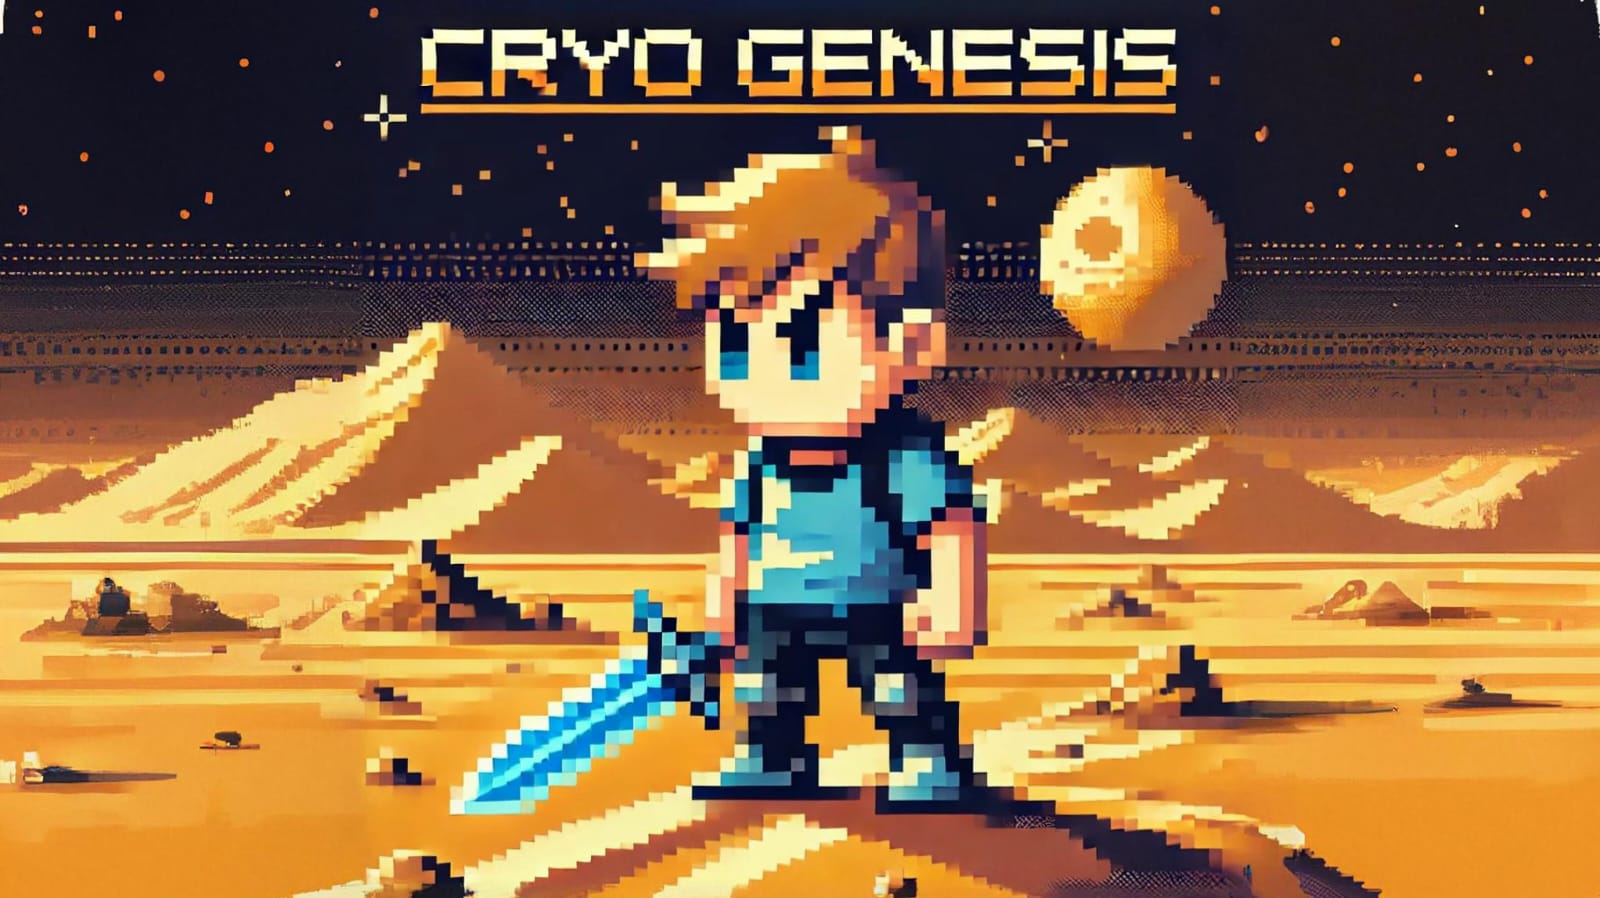
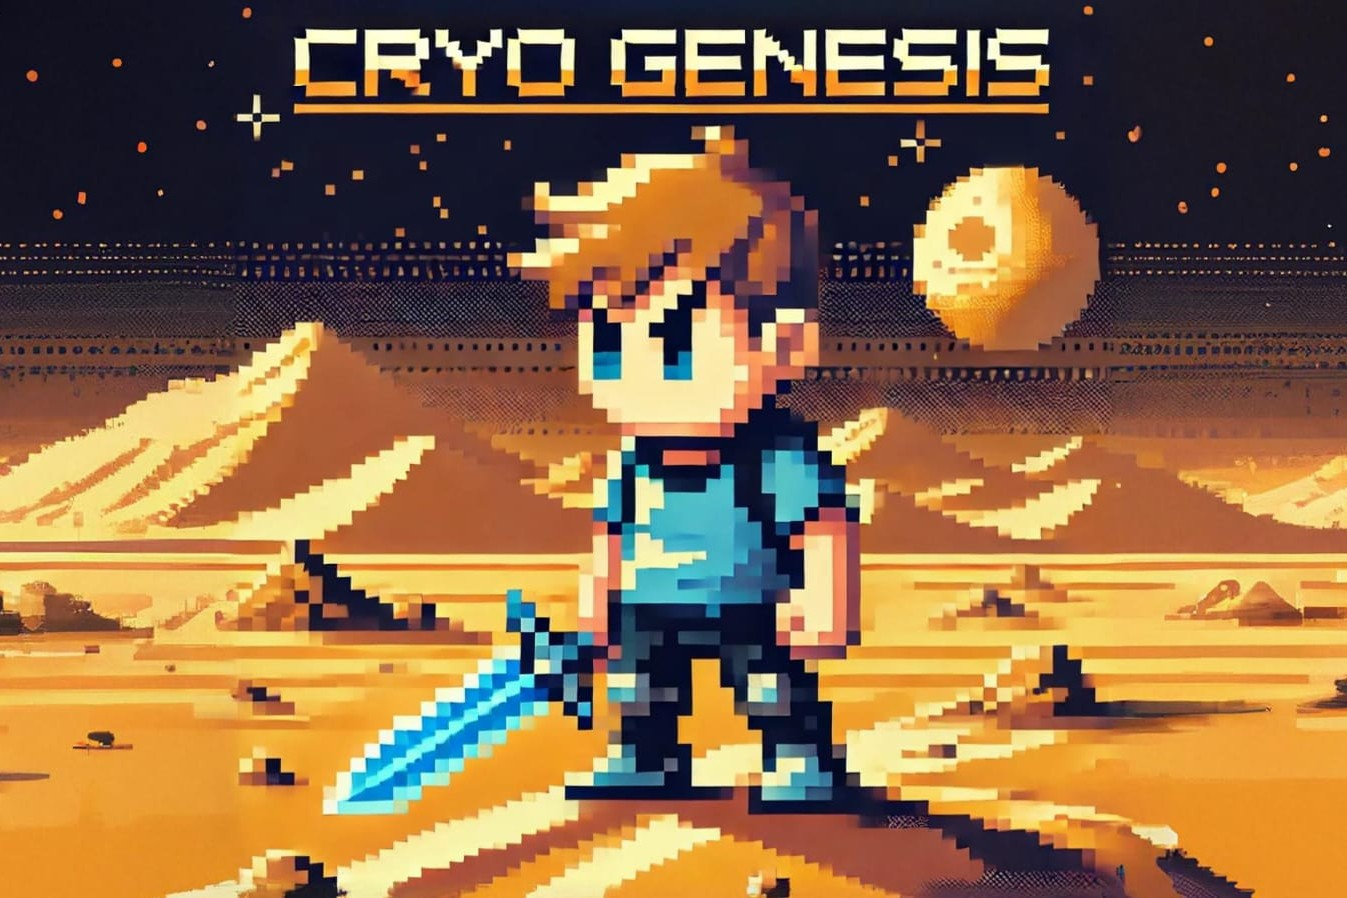
Updated

diff --git a/src/main/java/com/example/mars/tiles/tileManager.java b/src/main/java/com/example/mars/tiles/tileManager.java
@@ -3,6 +3,7 @@ package com.example.mars.tiles;
 import com.example.mars.GamePanel;
 import javafx.scene.canvas.GraphicsContext;
 import javafx.scene.image.Image;
+
 import java.io.BufferedReader;
 import java.io.IOException;
 import java.io.InputStream;
@@ -10,14 +11,18 @@ import java.io.InputStreamReader;
 
 public class tileManager {
 
+   // public int mapHeight;
+    //public int mapHeight;
     GamePanel gp;
     tile[] tile;
     int[][] mapTileNum;
+    public int mapWidth = 20;  // Define map width (number of tiles horizontally)
+   public int mapHeight = 20; // Define map height (number of tiles vertically)
 
     public tileManager(GamePanel gp) {
         this.gp = gp;
         tile = new tile[10];
-        mapTileNum = new int[gp.maxScreenCol][gp.maxScreenRow];
+        mapTileNum = new int[mapWidth][mapHeight]; // Adjusted for full map size
         getTileImage();
         loadMap();
     }
@@ -31,13 +36,13 @@ public class tileManager {
             tile[1].image = new Image(getClass().getResourceAsStream("/tiles/wall.png"));
 
             tile[2] = new tile();
-            tile[2].image = new Image(getClass().getResourceAsStream("/tiles/Water.png")); // Example
+            tile[2].image = new Image(getClass().getResourceAsStream("/tiles/water.png"));
 
             tile[3] = new tile();
-            tile[3].image = new Image(getClass().getResourceAsStream("/tiles/whole.png")); // Example
+            tile[3].image = new Image(getClass().getResourceAsStream("/tiles/whole.png"));
 
             tile[4] = new tile();
-            tile[4].image = new Image(getClass().getResourceAsStream("/tiles/twoWhole.png")); // Example
+            tile[4].image = new Image(getClass().getResourceAsStream("/tiles/twoWhole.png"));
         } catch (Exception e) {
             e.printStackTrace();
         }
@@ -47,11 +52,11 @@ public class tileManager {
         try (InputStream is = getClass().getResourceAsStream("/maps/world01.txt");
              BufferedReader br = new BufferedReader(new InputStreamReader(is))) {
 
-            for (int row = 0; row < gp.maxScreenRow; row++) {
+            for (int row = 0; row < mapHeight; row++) {
                 String line = br.readLine();
                 if (line == null) break; // Stop if no more rows
                 String[] numbers = line.split(" ");
-                for (int col = 0; col < gp.maxScreenCol; col++) {
+                for (int col = 0; col < mapWidth; col++) {
                     if (col < numbers.length) {
                         mapTileNum[col][row] = Integer.parseInt(numbers[col]);
                     }
@@ -62,15 +67,22 @@ public class tileManager {
         }
     }
 
-    public void draw(GraphicsContext gc) {
-        for (int row = 0; row < gp.maxScreenRow; row++) {
-            for (int col = 0; col < gp.maxScreenCol; col++) {
-                int tileNum = 0; // Default to ground if tile is missing
-                if (col < mapTileNum.length && row < mapTileNum[col].length) {
-                    tileNum = mapTileNum[col][row];
-                }
-                gc.drawImage(tile[tileNum].image, col * gp.tileSize, row * gp.tileSize, gp.tileSize, gp.tileSize);
+    public void draw(GraphicsContext gc, int cameraX, int cameraY) {
+        // Determine the starting and ending tiles based on the camera position
+        int startCol = Math.max(0, cameraX / gp.tileSize);
+        int endCol = Math.min(mapWidth, (cameraX + gp.maxScreenCol * gp.tileSize) / gp.tileSize + 1);
+        int startRow = Math.max(0, cameraY / gp.tileSize);
+        int endRow = Math.min(mapHeight, (cameraY + gp.maxScreenRow * gp.tileSize) / gp.tileSize + 1);
+
+        // Draw visible tiles
+        for (int row = startRow; row < endRow; row++) {
+            for (int col = startCol; col < endCol; col++) {
+                int tileNum = mapTileNum[col][row];
+                int tileX = col * gp.tileSize - cameraX;
+                int tileY = row * gp.tileSize - cameraY;
+
+                gc.drawImage(tile[tileNum].image, tileX, tileY, gp.tileSize, gp.tileSize);
             }
         }
     }
-} // Add this closing curly brace to fix the error
+}

diff --git a/src/main/java/com/example/mars/GamePanel.java b/src/main/java/com/example/mars/GamePanel.java
@@ -102,14 +102,14 @@ public class GamePanel {
             isFacingDown = false;
         }
         if (keyH.downPressed) {
-            playerY = Math.min(playerY + playerSpeed, screenHeight - tileSize);
+            playerY = Math.min(playerY + playerSpeed, tileM.mapHeight * tileSize - tileSize);
             isMoving = true;
             currentRow = 3; // Row 3 for downside movement
             isFacingDown = true;
             isFacingUp = false;
         }
         if (keyH.rightPressed) {
-            playerX = Math.min(playerX + playerSpeed, screenWidth - tileSize);
+            playerX = Math.min(playerX + playerSpeed, tileM.mapWidth * tileSize - tileSize);
             isMoving = true;
             currentRow = 4; // Row 4 for right-side movement
             isFacingRight = true;
@@ -176,21 +176,36 @@ public class GamePanel {
     private void draw() {
         gc.clearRect(0, 0, screenWidth, screenHeight); // Clear the entire canvas before drawing
 
-        tileM.draw(gc);
+        // Calculate the camera's top-left position
+        int cameraX = playerX - screenWidth / 2 + tileSize / 2;
+        int cameraY = playerY - screenHeight / 2 + tileSize / 2;
+
+        // Clamp the camera to prevent showing out-of-bounds areas
+        cameraX = Math.max(0, Math.min(cameraX, tileM.mapWidth * tileSize - screenWidth));
+        cameraY = Math.max(0, Math.min(cameraY, tileM.mapHeight * tileSize - screenHeight));
+
+        // Draw the tile map adjusted for the camera position
+        tileM.draw(gc, cameraX, cameraY);
 
         int characterWidth = tileSize * 2;
         int characterHeight = tileSize * 2;
+
+        // Draw the character at the center of the screen
+        int screenX = (screenWidth - characterWidth) / 2;
+        int screenY = (screenHeight - characterHeight) / 2;
 
         // Flip the sprite if the character is facing left
         if (!isFacingRight) {
             gc.save();
             gc.scale(-1, 1);
-            gc.drawImage(characterSprite, -playerX - characterWidth, playerY, characterWidth, characterHeight);
+            gc.drawImage(characterSprite, -screenX - characterWidth, screenY, characterWidth, characterHeight);
             gc.restore();
         } else {
-            gc.drawImage(characterSprite, playerX, playerY, characterWidth, characterHeight);
+            gc.drawImage(characterSprite, screenX, screenY, characterWidth, characterHeight);
         }
     }
+
+
 
 
     @FXML
